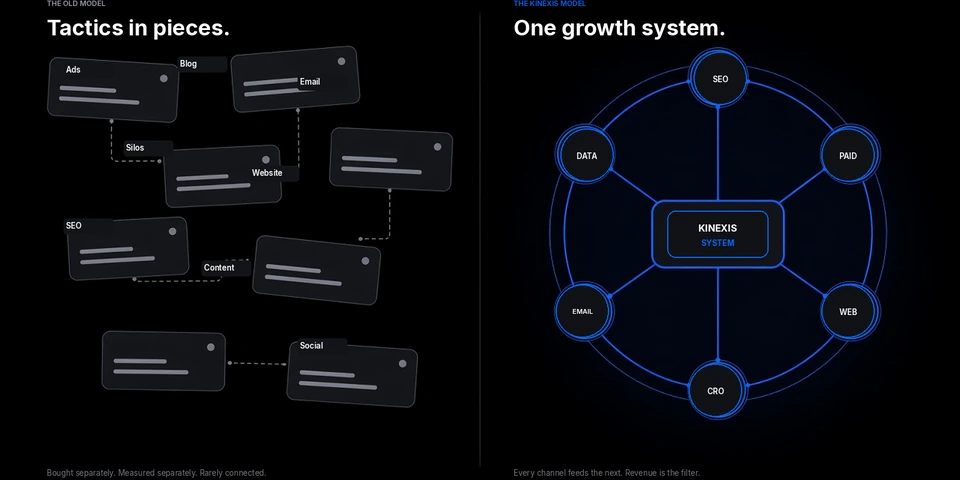
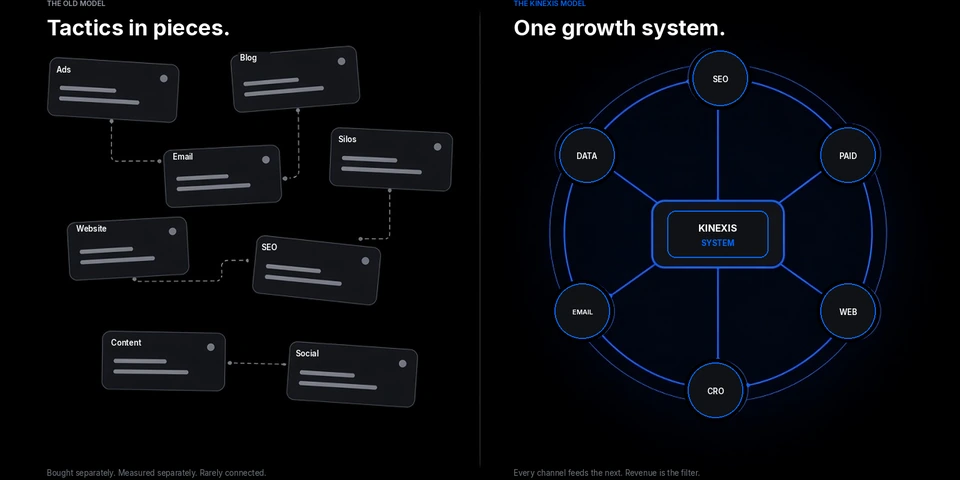
Polish About plates: in-card labels and true circle centering.
Detect left tactic cards and label inside each plate; clear AI double-rings
and redraw single nodes with ink-bbox–centered Inter caps; tighten the
architecture stack centering.

diff --git a/src/app/[locale]/about/page.tsx b/src/app/[locale]/about/page.tsx
@@ -132,7 +132,7 @@ export default async function AboutPage({ params }: Props) {
             className="about-why__still"
           >
             <Image
-              src="/assets/images/agency/about-system.webp?v=20260930d"
+              src="/assets/images/agency/about-system.webp?v=20260930e"
               alt="Diagram comparing scattered marketing tactics to the connected KINEXIS growth system"
               width={1600}
               height={800}
@@ -273,7 +273,7 @@ export default async function AboutPage({ params }: Props) {
             className="about-arch__plate"
           >
             <Image
-              src="/assets/images/editorial/about-architecture-plate.webp?v=20260930c"
+              src="/assets/images/editorial/about-architecture-plate.webp?v=20260930d"
               alt="KINEXIS growth architecture: six channels connected in one loop — SEO, paid, web, CRO, email, and data"
               width={1400}
               height={788}

diff --git a/scripts/build-about-plates.py b/scripts/build-about-plates.py
@@ -1,9 +1,15 @@
 #!/usr/bin/env python3
-"""Premium About plates: AI craft base + optically centered Inter typography."""
+"""Premium About plates: AI craft bases + optically centered Inter typography.
+
+Run: python3 scripts/build-about-plates.py
+
+Requires base renders at:
+  /opt/cursor/artifacts/assets/about-system-base-v3.jpg
+  /opt/cursor/artifacts/assets/about-arch-base-v3.jpg
+"""
 
 from __future__ import annotations
 
-import math
 from pathlib import Path
 
 import numpy as np
@@ -17,56 +23,106 @@ MUTE = (150, 155, 165)
 MUTE2 = (112, 118, 128)
 FILL = (16, 18, 22)
 
+SYSTEM_BASE = Path("/opt/cursor/artifacts/assets/about-system-base-v3.jpg")
+ARCH_BASE = Path("/opt/cursor/artifacts/assets/about-arch-base-v3.jpg")
+
 
 def font(weight: str, size: int) -> ImageFont.FreeTypeFont:
     files = {
         "reg": "Inter-Regular.ttf",
-        "med": "Inter-Medium.ttf",
         "semi": "Inter-SemiBold.ttf",
         "bold": "Inter-Bold.ttf",
     }
     return ImageFont.truetype(str(FONT_DIR / files[weight]), size)
 
 
-def optical_text(draw, cx, cy, text, fnt, fill, *, nudge_x=0.0, nudge_y=1.4):
-    """Center by glyph ink bbox; nudge_y pulls caps optically into the circle."""
+def optical_text(draw, cx, cy, text, fnt, fill, *, nudge_x=0.0, nudge_y=1.7):
+    """Center by glyph ink bbox; nudge_y pulls caps into optical center."""
     bb = fnt.getbbox(text)
     x = cx - (bb[0] + bb[2]) / 2 + nudge_x
     y = cy - (bb[1] + bb[3]) / 2 + nudge_y
     draw.text((x, y), text, font=fnt, fill=fill)
 
 
-def fill_circle(draw, cx, cy, r, fill=FILL, outline=None, width=2):
-    box = [cx - r, cy - r, cx + r, cy + r]
-    draw.ellipse(box, fill=fill, outline=outline, width=width if outline else 0)
-
-
-def fill_rrect(draw, box, radius=12, fill=FILL, outline=None, width=2):
-    draw.rounded_rectangle(box, radius=radius, fill=fill, outline=outline, width=width if outline else 1)
-
-
-def crop_2x1(img: Image.Image) -> Image.Image:
-    """Center-crop 1600x900 → 1600x800."""
-    w, h = img.size
-    if h == 800:
-        return img
-    top = max(0, (h - 800) // 2)
-    return img.crop((0, top, w, top + 800))
+def detect_cards(arr: np.ndarray):
+    h, w, _ = arr.shape
+    g = arr[:, :, 0].astype(int)
+    mask = (g >= 16) & (g <= 40) & (arr[:, :, 2] < 70)
+    mask[:, w // 2 :] = False
+    mask[:110, :] = False
+    mask[h - 90 :, :] = False
+    visited = np.zeros(mask.shape, dtype=bool)
+    boxes = []
+    H, W = mask.shape
+    for y in range(H):
+        for x in np.where(mask[y] & ~visited[y])[0]:
+            if visited[y, x]:
+                continue
+            stack = [(y, x)]
+            visited[y, x] = True
+            cells = []
+            while stack:
+                cy, cx = stack.pop()
+                cells.append((cy, cx))
+                for dy, dx in ((1, 0), (-1, 0), (0, 1), (0, -1)):
+                    ny, nx = cy + dy, cx + dx
+                    if 0 <= ny < H and 0 <= nx < W and mask[ny, nx] and not visited[ny, nx]:
+                        visited[ny, nx] = True
+                        stack.append((ny, nx))
+            if len(cells) < 400:
+                continue
+            ys = [c[0] for c in cells]
+            xs = [c[1] for c in cells]
+            x0, x1, y0, y1 = min(xs), max(xs), min(ys), max(ys)
+            bw, bh = x1 - x0, y1 - y0
+            if 55 <= bw <= 260 and 28 <= bh <= 120 and bh < bw * 0.95:
+                boxes.append((x0, y0, x1, y1, len(cells)))
+    boxes.sort(key=lambda b: -b[4])
+    kept = []
+    for b in boxes:
+        overlap = False
+        for k in kept:
+            ix0, iy0 = max(b[0], k[0]), max(b[1], k[1])
+            ix1, iy1 = min(b[2], k[2]), min(b[3], k[3])
+            if ix1 > ix0 and iy1 > iy0 and (ix1 - ix0) * (iy1 - iy0) > 0.2 * (b[2] - b[0]) * (b[3] - b[1]):
+                overlap = True
+                break
+        if not overlap:
+            kept.append(b)
+    kept = kept[:8]
+    kept.sort(key=lambda b: (b[1] // 50, b[0]))
+    return kept
 
 
 def compose_system() -> Image.Image:
-    base = (
-        Image.open("/opt/cursor/artifacts/assets/about-system-base-v3.jpg")
-        .convert("RGBA")
-        .resize((1600, 900), Image.Resampling.LANCZOS)
-    )
+    if not SYSTEM_BASE.exists():
+        raise SystemExit(f"Missing base: {SYSTEM_BASE}")
+    base = Image.open(SYSTEM_BASE).convert("RGBA").resize((1600, 900), Image.Resampling.LANCZOS)
+    arr = np.array(base.convert("RGB"))
+    cards = detect_cards(arr)
+    print(f"left cards: {len(cards)}")
+
     img = base.copy()
     draw = ImageDraw.Draw(img)
 
-    # Calibrated from blob detection on 1600×900 base
+    draw.text((78, 48), "THE OLD MODEL", font=font("semi", 12), fill=MUTE)
+    draw.text((78, 74), "Tactics in pieces.", font=font("bold", 36), fill=WHITE)
+    draw.text((856, 48), "THE KINEXIS MODEL", font=font("semi", 12), fill=BLUE)
+    draw.text((856, 74), "One growth system.", font=font("bold", 36), fill=WHITE)
+
+    labs = ["Ads", "Blog", "Email", "Silos", "Website", "SEO", "Content", "Social"]
+    for i, (x0, y0, x1, y1, _) in enumerate(cards):
+        lab = labs[i] if i < len(labs) else f"N{i}"
+        draw.rounded_rectangle(
+            [x0 + 10, y0 + 8, x0 + 10 + max(54, len(lab) * 9), y0 + 30],
+            radius=4,
+            fill=(20, 22, 26),
+        )
+        draw.text((x0 + 14, y0 + 10), lab, font=font("semi", 13), fill=WHITE)
+
     hub = (1196, 440)
     hub_w, hub_h = 168, 78
-    node_r = 44
+    node_r = 46
     nodes = [
         ("SEO", 1200, 180),
         ("PAID", 1413, 308),
@@ -76,50 +132,29 @@ def compose_system() -> Image.Image:
         ("DATA", 978, 308),
     ]
 
-    # Clear + redraw hub for clean stacked type
-    fill_rrect(
-        draw,
+    draw.rounded_rectangle(
         [hub[0] - hub_w / 2, hub[1] - hub_h / 2, hub[0] + hub_w / 2, hub[1] + hub_h / 2],
         radius=14,
         fill=FILL,
         outline=BLUE,
         width=2,
     )
-    optical_text(draw, hub[0], hub[1] - 11, "KINEXIS", font("bold", 16), WHITE, nudge_y=1.1)
-    optical_text(draw, hub[0], hub[1] + 13, "SYSTEM", font("bold", 13), BLUE, nudge_y=1.1)
+    optical_text(draw, hub[0], hub[1] - 11, "KINEXIS", font("bold", 16), WHITE, nudge_y=1.2)
+    optical_text(draw, hub[0], hub[1] + 13, "SYSTEM", font("bold", 13), BLUE, nudge_y=1.2)
 
-    # Nodes: clear interior, single crisp ring, optically centered labels
-    fn = font("semi", 13)
-    fn_sm = font("semi", 11)
     for lab, x, y in nodes:
-        fill_circle(draw, x, y, node_r, fill=FILL, outline=BLUE, width=2)
-        f = fn_sm if len(lab) >= 5 else fn
-        nx = 1.2 if len(lab) >= 5 else 0.6
-        optical_text(draw, x, y, lab, f, WHITE, nudge_x=nx, nudge_y=1.15)
+        # Erase AI double-ring, redraw single crisp node
+        draw.ellipse([x - node_r - 6, y - node_r - 6, x + node_r + 6, y + node_r + 6], fill=(0, 0, 0))
+        draw.ellipse(
+            [x - node_r, y - node_r, x + node_r, y + node_r],
+            fill=FILL,
+            outline=BLUE,
+            width=2,
+        )
+        f = font("semi", 11 if len(lab) >= 5 else 13)
+        nx = 1.0 if len(lab) >= 5 else 0.5
+        optical_text(draw, x, y, lab, f, WHITE, nudge_x=nx, nudge_y=1.7)
 
-    # Headers / captions
-    draw.text((78, 48), "THE OLD MODEL", font=font("semi", 12), fill=MUTE)
-    draw.text((78, 74), "Tactics in pieces.", font=font("bold", 36), fill=WHITE)
-    draw.text((856, 48), "THE KINEXIS MODEL", font=font("semi", 12), fill=BLUE)
-    draw.text((856, 74), "One growth system.", font=font("bold", 36), fill=WHITE)
-
-    # Left card labels — positions from grid inspection of the blank base
-    left_labels = [
-        (110, 158, "Ads"),
-        (300, 148, "Blog"),
-        (500, 178, "Email"),
-        (210, 288, "Silos"),
-        (420, 330, "Website"),
-        (110, 418, "SEO"),
-        (340, 488, "Content"),
-        (500, 618, "Social"),
-    ]
-    fl = font("semi", 13)
-    for lx, ly, lab in left_labels:
-        draw.rounded_rectangle([lx - 4, ly - 4, lx + 78, ly + 22], radius=5, fill=(18, 20, 24))
-        draw.text((lx, ly), lab, font=fl, fill=WHITE)
-
-    # y≈830 → ~780 after center-crop to 800
     draw.text(
         (78, 830),
         "Bought separately. Measured separately. Rarely connected.",
@@ -133,32 +168,25 @@ def compose_system() -> Image.Image:
         fill=MUTE2,
     )
 
-    out = crop_2x1(img).convert("RGB")
-
-    # Verify ink centroids after crop (nodes shift by -50 y)
-    dy = 50
-    check_nodes = [(lab, x, y - dy) for lab, x, y in nodes]
-    verify(out, check_nodes, node_r)
+    out = img.crop((0, 50, 1600, 850)).convert("RGB")
+    verify(out, [(lab, x, y - 50) for lab, x, y in nodes], node_r)
     return out
 
 
 def compose_arch() -> Image.Image:
-    base = (
-        Image.open("/opt/cursor/artifacts/assets/about-arch-base-v3.jpg")
-        .convert("RGBA")
-        .resize((1600, 900), Image.Resampling.LANCZOS)
-    )
+    if not ARCH_BASE.exists():
+        raise SystemExit(f"Missing base: {ARCH_BASE}")
+    base = Image.open(ARCH_BASE).convert("RGBA").resize((1600, 900), Image.Resampling.LANCZOS)
     img = base.copy()
     draw = ImageDraw.Draw(img)
 
-    # Calibrated blue-border comps on 1600×900, ordered clockwise from top
     boxes = [
-        (938, 118, 1182, 249),   # SEO top
-        (1183, 210, 1425, 340),  # PAID
-        (1171, 541, 1425, 679),  # WEB
-        (1010, 680, 1179, 764),  # CRO
-        (764, 541, 958, 644),    # EMAIL
-        (764, 250, 937, 340),    # DATA
+        (938, 118, 1182, 249),
+        (1183, 210, 1425, 340),
+        (1171, 541, 1425, 679),
+        (1010, 680, 1179, 764),
+        (764, 541, 958, 644),
+        (764, 250, 937, 340),
     ]
     labels = [
         ("SEO", "Organic discovery"),
@@ -168,11 +196,9 @@ def compose_arch() -> Image.Image:
         ("EMAIL", "Retention"),
         ("DATA", "Intelligence"),
     ]
+    cx = sum((a + c) / 2 for a, b, c, d in boxes) / 6
+    cy = sum((b + d) / 2 for a, b, c, d in boxes) / 6
 
-    cx = sum((a + c) / 2 for a, b, c, d in boxes) / len(boxes)
-    cy = sum((b + d) / 2 for a, b, c, d in boxes) / len(boxes)
-
-    # Left copy
     draw.text((72, 64), "ARCHITECTURE", font=font("semi", 12), fill=BLUE)
     draw.text((72, 100), "Six channels.", font=font("bold", 40), fill=WHITE)
     draw.text((72, 148), "One loop.", font=font("bold", 40), fill=WHITE)
@@ -185,32 +211,27 @@ def compose_arch() -> Image.Image:
         fill=MUTE2,
     )
 
-    # Center wordmark — clear field, no overlapping glyph
-    fill_circle(draw, cx, cy, 56, fill=(0, 0, 0), outline=None)
-    optical_text(draw, cx, cy - 12, "GROWTH", font("bold", 14), WHITE, nudge_y=1.1)
-    optical_text(draw, cx, cy + 10, "LOOP", font("bold", 14), BLUE, nudge_y=1.1)
-    # small mark below type
+    draw.ellipse([cx - 56, cy - 56, cx + 56, cy + 56], fill=(0, 0, 0))
+    optical_text(draw, cx, cy - 12, "GROWTH", font("bold", 14), WHITE, nudge_y=1.2)
+    optical_text(draw, cx, cy + 10, "LOOP", font("bold", 14), BLUE, nudge_y=1.2)
     draw.ellipse([cx - 3.5, cy + 30, cx + 3.5, cy + 37], fill=BLUE)
     draw.ellipse([cx - 10, cy + 24, cx + 10, cy + 44], outline=BLUE, width=1)
 
-    fn = font("bold", 14)
-    fs = font("reg", 12)
     for (x0, y0, x1, y1), (lab, sub) in zip(boxes, labels):
-        fill_rrect(draw, [x0, y0, x1, y1], radius=12, fill=FILL, outline=BLUE, width=2)
+        draw.rounded_rectangle([x0, y0, x1, y1], radius=12, fill=FILL, outline=BLUE, width=2)
         ncx, ncy = (x0 + x1) / 2, (y0 + y1) / 2
-        # Two-line stack optically centered as one unit (title + gap + sub)
-        optical_text(draw, ncx, ncy - 7, lab, fn, BLUE, nudge_y=1.1)
-        optical_text(draw, ncx, ncy + 14, sub, fs, MUTE, nudge_y=0.9)
+        optical_text(draw, ncx, ncy - 2, lab, font("bold", 14), BLUE, nudge_y=1.2)
+        optical_text(draw, ncx, ncy + 18, sub, font("reg", 12), MUTE, nudge_y=1.0)
 
-    return crop_2x1(img).convert("RGB")
+    return img.crop((0, 50, 1600, 850)).convert("RGB")
 
 
 def verify(img: Image.Image, nodes, r: float) -> None:
     arr = np.array(img)
-    print("circle label ink centroids (want ~0,0):")
+    print("circle label ink centroids (target ~0, +0..+2):")
     for lab, cx, cy in nodes:
         xs, ys = [], []
-        rr = r - 8
+        rr = r - 12
         for y in range(int(cy - rr), int(cy + rr) + 1):
             for x in range(int(cx - rr), int(cx + rr) + 1):
                 if (x - cx) ** 2 + (y - cy) ** 2 > rr * rr:
@@ -223,20 +244,19 @@ def verify(img: Image.Image, nodes, r: float) -> None:
                     ys.append(y)
         if xs:
             print(f"  {lab}: dx={np.mean(xs)-cx:+.2f} dy={np.mean(ys)-cy:+.2f}")
-        else:
-            print(f"  {lab}: no white ink found at ({cx:.0f},{cy:.0f})")
 
 
 def export(img: Image.Image, png: Path, webp: Path, sm: Path | None = None) -> None:
     img.save(png, "PNG", optimize=True)
     img.save(webp, "WEBP", quality=95, method=6)
     if sm:
-        sm_img = img.resize((960, int(960 * img.height / img.width)), Image.Resampling.LANCZOS)
-        sm_img.save(sm, "WEBP", quality=92, method=6)
+        img.resize((960, int(960 * img.height / img.width)), Image.Resampling.LANCZOS).save(
+            sm, "WEBP", quality=92, method=6
+        )
     print(f"wrote {webp.name} {img.size} {webp.stat().st_size}b")
 
 
-def main():
+def main() -> None:
     system = compose_system()
     arch = compose_arch()
     export(
@@ -253,18 +273,6 @@ def main():
     Path("/tmp/about-plates").mkdir(parents=True, exist_ok=True)
     system.save("/tmp/about-plates/system-preview.png")
     arch.save("/tmp/about-plates/arch-preview.png")
-
-    # Node crops for visual QA (post-crop coords)
-    for lab, x, y in [
-        ("SEO", 1200, 130),
-        ("PAID", 1413, 258),
-        ("WEB", 1413, 518),
-        ("CRO", 1192, 650),
-        ("EMAIL", 970, 518),
-        ("DATA", 978, 258),
-    ]:
-        pad = 52
-        system.crop((x - pad, y - pad, x + pad, y + pad)).save(f"/tmp/about-plates/node-{lab}.png")
     print("done")
 
 
